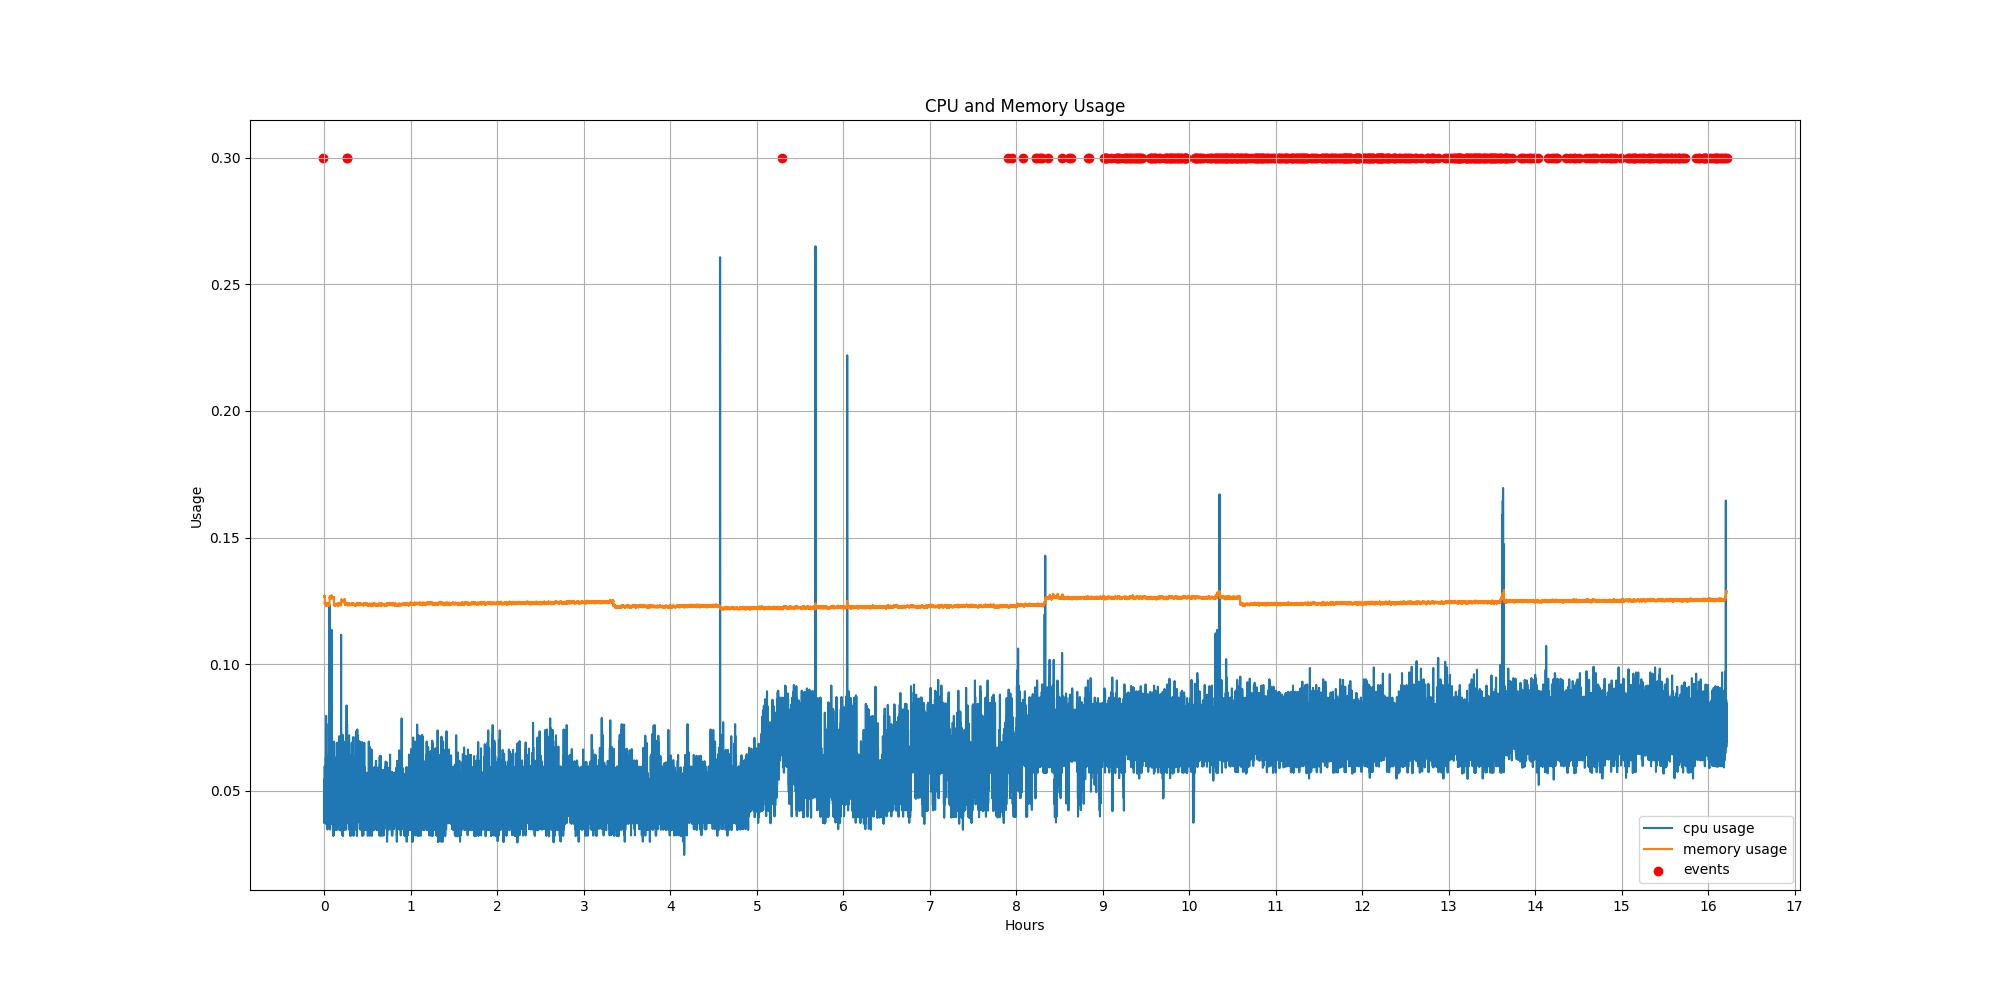
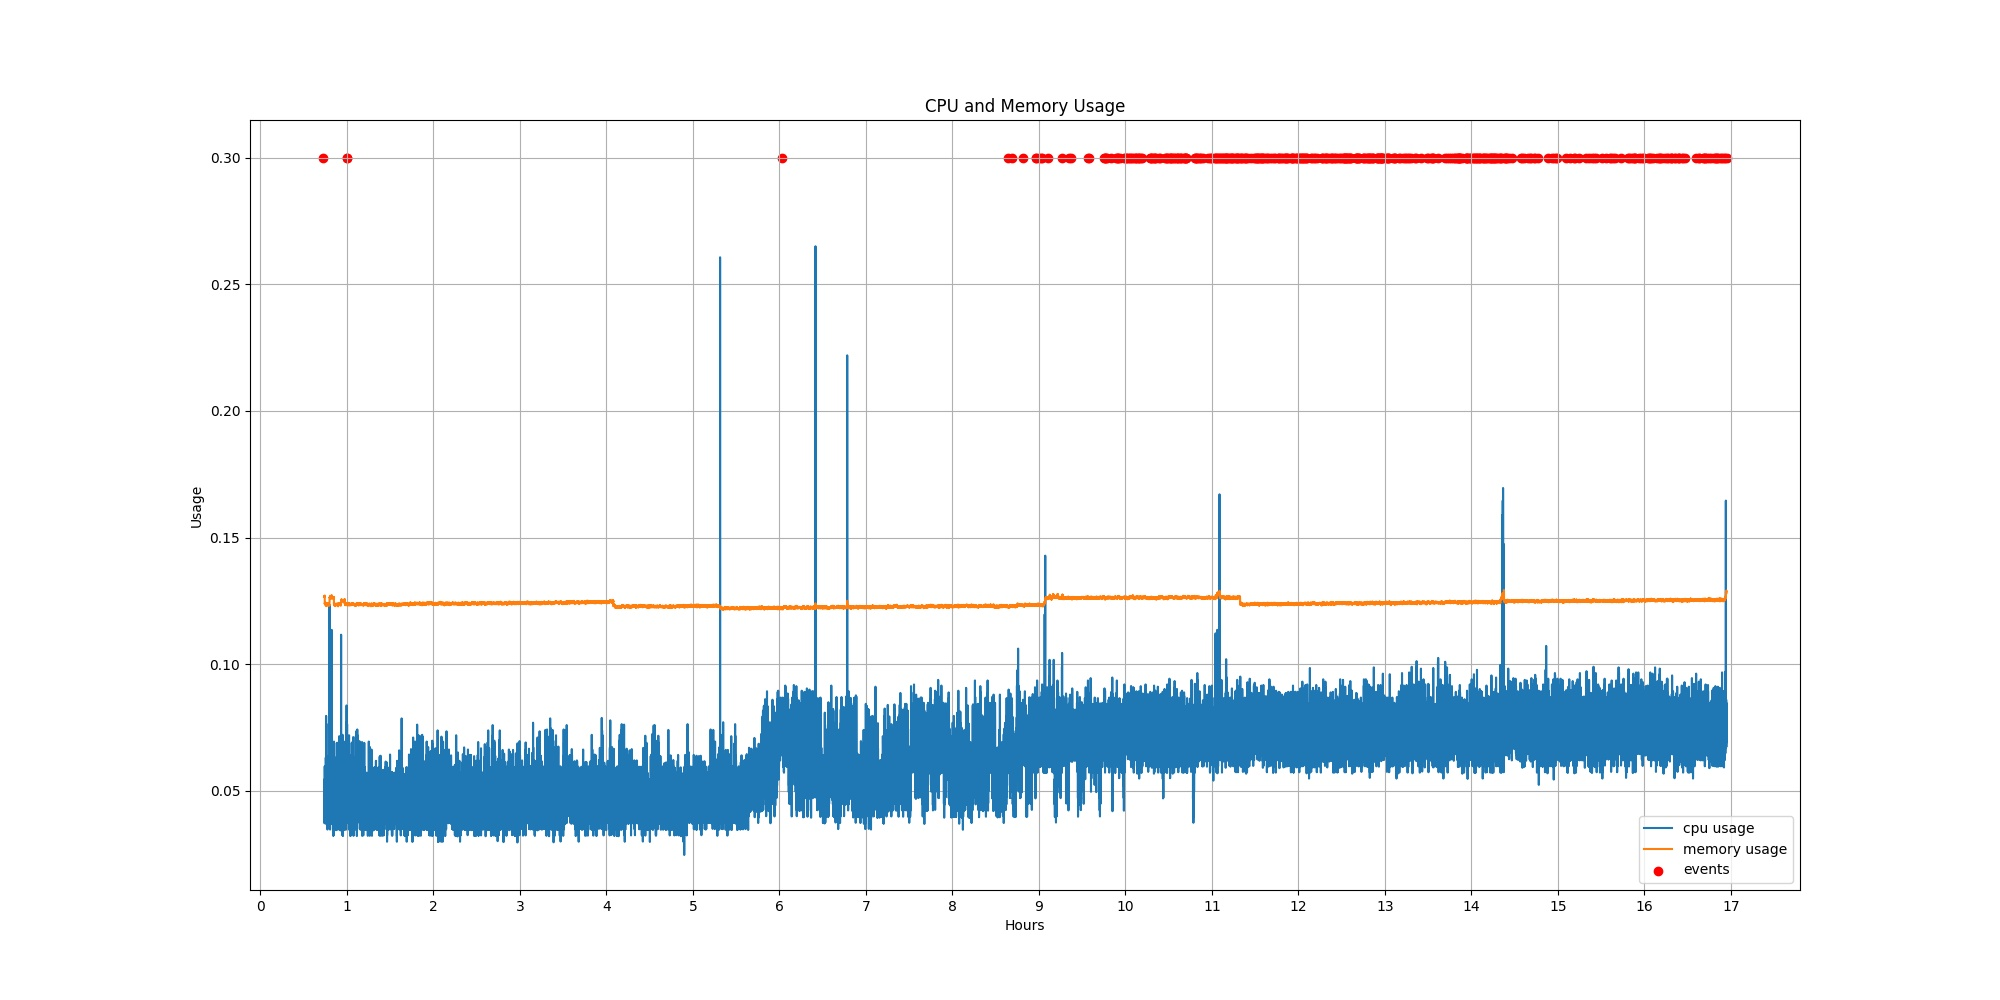
plot: fix xlabel errors

diff --git a/plot_monitoring_results.py b/plot_monitoring_results.py
@@ -98,8 +98,9 @@ def plot_measurements(perf_data, events, file_name):
   # legend
   ax.legend()
   
-  # use hours as xticks
-  ts_xlabel = np.arange(ts.min(), ts.max() + 3600, 3600)
+  # use hours as xticks. '- ts.min()%3600' is used to remove the minutes
+  # and seconds part
+  ts_xlabel = np.arange(ts.min() - ts.min()%3600, ts.max() + 3600, 3600)
   # get the hours of these timestamps
   hours_xlabel = [datetime.datetime.fromtimestamp(entry).hour for \
   entry in ts_xlabel]
